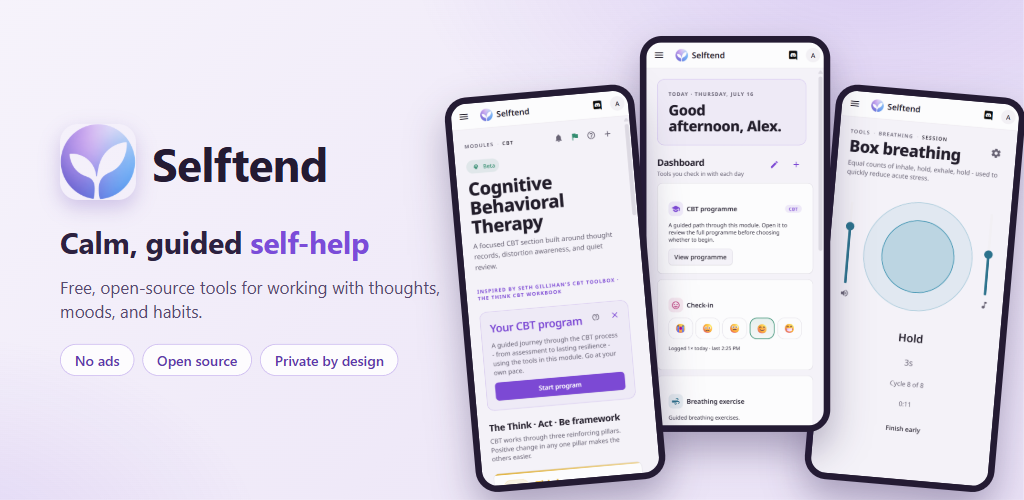
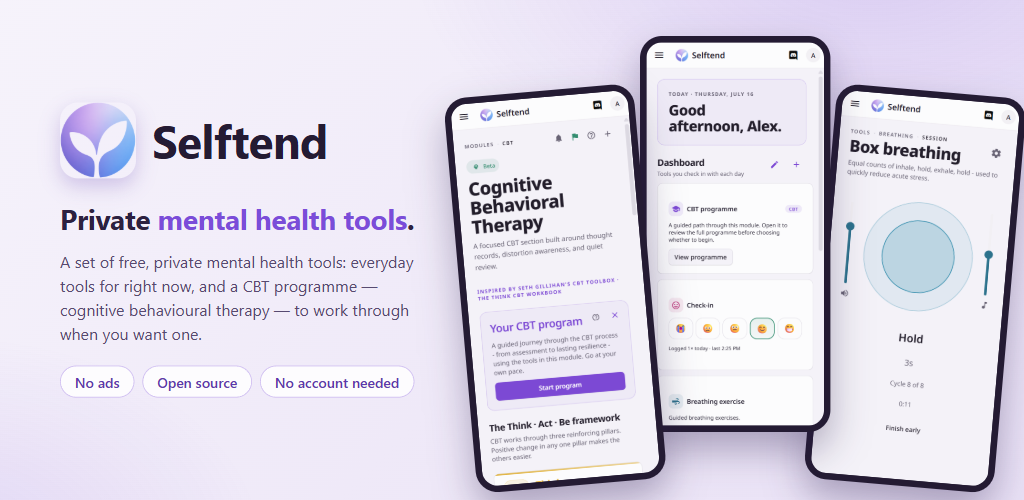
fix(store): the Play feature graphic takes the short form, and its source joins the copy gate (#2022)
The graphic's headline still read "Calm, guided self-help" - the compound
`docs/positioning.md` calls unsafe - through both repositions. It now reads the
short form, "Private mental health tools.", with the frame sentence beneath it.

The sentence is not decoration. Clause 1 requires the method on any surface that
names the category, and since the category noun stopped carrying CBT it is the
only thing putting it there; the graphic carried no method at all before. It
takes the brand-omitted form `auth:landing.subtitle` uses, because the brand
block already prints "Selftend". The "Private by design" pill goes - the
headline says it - and "No account needed" takes its place.

The headline is set at 28px, not 30: at 30 it measures exactly the 380px column
and wraps to a "...mental health / tools." orphan.

"It is an image, so no gate can see it" was half wrong, and the wrong half is
the useful one: the PNG is a screenshot of `feature-graphic.html`, which is text
and tracked. It went unread because the prose corpus keeps `.md` files and
because `docs/launch/` is a published-record exclusion earned by the posted
Reddit banner beside it. The source is carved back out and scanned.

The widening was nearly cosmetic. `\bguided\s+(?:[\w-]+\s+){0,1}self[-\s]help`
does not match `guided <span class="accent">self-help</span>`, so the file would
have been scanned, reported clean, and counted as evidence. Artwork sources are
[…]

diff --git a/test/positioning-copy.test.ts b/test/positioning-copy.test.ts
@@ -58,6 +58,35 @@ function readFile(relative: string): Scanned {
 }
 
 /**
+ * The same, with markup replaced by whitespace — for the artwork sources in
+ * `RENDERED_ARTWORK_SOURCES`.
+ *
+ * ☠☠ **WITHOUT THIS, ADDING THE FILE TO THE CORPUS GUARDS NOTHING, AND
+ * THE SUITE IS GREEN EITHER WAY.** Every rule in this file is a regex over a
+ * flat string, and the phrases they ban are multi-word. In an HTML document a
+ * tag can fall between any two of those words — and in the file this was
+ * written for, one did: the headline was
+ *
+ *     <h1>Calm, guided <span class="accent">self-help</span></h1>
+ *
+ * `\bguided\s+(?:[\w-]+\s+){0,1}self[-\s]help` does not match that, because
+ * `<span class="accent">` is not `[\w-]+`. So the corpus entry would have been
+ * added in response to a live violation, over the exact file carrying it, and
+ * reported clean — the worst outcome available, because it also looks like
+ * proof the rest of the repository is clean.
+ *
+ * Replaced with a SPACE and never the empty string: `a<br>b` is two words, and
+ * concatenating it into `ab` would hide a phrase as surely as splitting one.
+ */
+function readArtworkSource(relative: string): Scanned {
+  return {
+    surface: relative,
+    id: relative,
+    text: fs.readFileSync(path.join(ROOT, relative), "utf8").replace(/<[^>]+>/g, " "),
+  };
+}
+
+/**
  * Copy a user reads inside the product. The i18n half is read via
  * `locale-strings` rather than imported, so a namespace added tomorrow is
  * covered the day its file lands - the property `restraint-copy` was written
@@ -114,7 +143,10 @@ const I18N_VALUES: Scanned[] = USER_FACING.filter(({ surface }) => surface.start
  *     fixing one without the other silently desynchronises them.
  *   - `campaign/scripts/` are the narrations of eight videos already on YouTube.
  *     Changing a script does not change a video.
- *   - `launch/` holds a published Reddit banner.
+ *   - `launch/` holds a published Reddit banner. ☠ It does NOT hold only
+ *     that: the Play feature graphic's HTML source lives beside it and is
+ *     regenerated on demand rather than published once, so it is carved back
+ *     out by `RENDERED_ARTWORK_SOURCES` below (#2022).
  *   - `design/1822-before/` transcribes every LIVE surface verbatim (#1822), so
  *     that #1823 can diff its rewrite against what a visitor actually sees. It
  *     exists BECAUSE the live copy violates these rules: `main` is 117 commits
@@ -193,20 +225,64 @@ function proseDocIds(walked: string[], tracked: ReadonlySet<string>): string[] {
 }
 
 /**
+ * Artwork that is TEXT in this repository and pixels everywhere else (#2022).
+ *
+ * ☠☠ **"IT IS AN IMAGE, SO NO GATE CAN SEE IT" IS HALF WRONG, AND THE WRONG
+ * HALF IS THE ONE THAT COSTS SOMETHING.** The Play feature graphic published the
+ * banned compound as its headline for the whole of the #1616 → #2003
+ * repositioning, and every account of it — the ticket that found it, and
+ * `store/play-listing.md` — explained the miss by saying a PNG is unreadable to
+ * a gate. True, and beside the point: the PNG is a *screenshot* of
+ * `feature-graphic.html`, which is text, tracked, and sitting in this repository
+ * the entire time. The words were greppable; nothing was grepping them.
+ *
+ * They fell through two filters at once, and neither was aimed at them:
+ *
+ *   1. `proseDocIds` keeps `.md` files only, because the corpus was built to
+ *      walk a documentation tree. An `.html` file is not a doc, so it was never
+ *      a candidate.
+ *   2. `docs/launch/` is a `PUBLISHED_RECORDS` entry, earned by the Reddit
+ *      banner beside it — a banner posted once, whose source must keep matching
+ *      the image on Reddit rather than the current positioning.
+ *
+ * ⚠ **The exclusion is right about the banner and wrong about the graphic, and
+ * the difference is not "image vs doc" — it is whether the artefact is FINISHED.**
+ * A posted banner is a record: editing its source changes nothing that anyone
+ * can see, and would only make the record lie. A store asset is live inventory:
+ * `docs/launch/play-listing/README.md` says in as many words to edit this file
+ * and re-screenshot, and the listing takes whatever it is regenerated into. A
+ * file the repository invites you to rewrite is copy, and copy is gated.
+ *
+ * Only the `guided self-help` rules reach here, exactly as for the prose docs —
+ * so this adds one file's worth of banned-compound coverage and no house-style
+ * or user-facing rule, which would go red on the CSS this file is mostly made of.
+ *
+ * ☠ These are read through `readArtworkSource`, never `readFile`, and that is
+ * not a detail: the headline that prompted all of this had a `<span>` sitting
+ * between the two banned words, which every rule here is blind to. See that
+ * function.
+ */
+const RENDERED_ARTWORK_SOURCES = ["docs/launch/play-listing/feature-graphic.html"];
+
+/**
  * Contributor-facing prose: `AGENTS.md` and the docs tree, minus the records
- * above and minus anything git is not tracking. Only the `guided self-help`
- * rules run over this — see their block for why that phrase, and only that
- * phrase, can safely reach this far.
+ * above and minus anything git is not tracking — plus the rendered-artwork
+ * sources above, which are neither prose nor Markdown but are copy. Only the
+ * `guided self-help` rules run over this — see their block for why that phrase,
+ * and only that phrase, can safely reach this far.
  */
 const PROSE_DOCS: Scanned[] = [
-  "AGENTS.md",
-  ...proseDocIds(
-    fs
-      .readdirSync(path.join(ROOT, "docs"), { recursive: true, encoding: "utf8" })
-      .map((entry) => `docs/${entry.split(path.sep).join("/")}`),
-    TRACKED_DOCS,
-  ),
-].map(readFile);
+  ...[
+    "AGENTS.md",
+    ...proseDocIds(
+      fs
+        .readdirSync(path.join(ROOT, "docs"), { recursive: true, encoding: "utf8" })
+        .map((entry) => `docs/${entry.split(path.sep).join("/")}`),
+      TRACKED_DOCS,
+    ),
+  ].map(readFile),
+  ...RENDERED_ARTWORK_SOURCES.map(readArtworkSource),
+];
 
 /**
  * The user-facing copy plus the three prose surfaces that also declare what
@@ -924,6 +1000,62 @@ describe("shipped copy matches the positioning in docs/positioning.md", () => {
     // is load-bearing, not a leftover.
     for (const record of ["docs/app-store-review-information.md", "docs/campaign/scripts/cbt.md"]) {
       expect(readFile(record).text).toMatch(/guided self-help/i);
+    }
+  });
+
+  /**
+   * The feature graphic's source is scanned, and the exclusion around it still
+   * holds (#2022).
+   *
+   * ☠ The assertion that matters is the THIRD one. Adding the file to the
+   * corpus is worth nothing unless the rules actually reach it, and "the suite
+   * is green" cannot show that — it is equally green when the corpus entry is
+   * dropped. So the rule is run directly against the string the graphic carried
+   * until 2026-09-06, which is the shape this entry exists to catch.
+   *
+   * ⚠ The Reddit banner beside it is asserted OUT, and still contains the
+   * compound: `docs/launch/` earns its `PUBLISHED_RECORDS` place on that file,
+   * and a carve-out that quietly swept the whole directory in would turn the
+   * build red on a banner nobody may edit.
+   */
+  it("scans the feature graphic's HTML source, but not the posted banner beside it (#2022)", () => {
+    const ids = new Set(PROSE_DOCS.map((entry) => entry.id));
+    const graphic = "docs/launch/play-listing/feature-graphic.html";
+
+    expect(ids).toContain(graphic);
+    expect(ids.has("docs/launch/reddit-post/banner.html")).toBe(false);
+
+    // The banner really does still carry the compound, so holding `docs/launch/`
+    // out of the walk is load-bearing rather than a leftover.
+    expect(readFile("docs/launch/reddit-post/banner.html").text).toMatch(/guided self-help/i);
+
+    const rule = GUIDED_SELF_HELP.find(({ name }) => name === "en: guided self-help")!;
+
+    // The headline this file carried until 2026-09-06, verbatim. The rule misses
+    // it as markup and catches it as text: that gap is the whole reason the
+    // corpus entry is read through `readArtworkSource`, and asserting the miss
+    // is what stops someone "simplifying" that back to `readFile`.
+    const wasLive = '<h1>Calm, guided <span class="accent">self-help</span></h1>';
+    expect(rule.pattern.test(wasLive)).toBe(false);
+    expect(rule.pattern.test(wasLive.replace(/<[^>]+>/g, " "))).toBe(true);
+
+    // So the entry in the corpus must be the stripped form, not the raw file.
+    // ⚠ The headline is matched with `\s+` and not as a literal: the accent
+    // span around the noun becomes whitespace, and the full stop after its
+    // closing tag detaches into `tools .`. Harmless for every rule that reaches
+    // this corpus, since all three match word sequences — but a future rule
+    // anchored on adjacent punctuation would not survive the strip, and should
+    // be written against the raw file instead of being bent to fit this one.
+    const scanned = PROSE_DOCS.find(({ id }) => id === graphic)!;
+    expect(scanned.text).not.toMatch(/<h1/);
+    expect(scanned.text).toMatch(/Private\s+mental health tools/);
+
+    // And what it carries today is clean under every guided-self-help rule.
+    for (const { pattern } of GUIDED_SELF_HELP) {
+      expect({ rule: pattern.source, hit: pattern.test(scanned.text) }).toEqual({
+        rule: pattern.source,
+        hit: false,
+      });
     }
   });
 

diff --git a/docs/launch/play-listing/feature-graphic.html b/docs/launch/play-listing/feature-graphic.html
@@ -47,7 +47,9 @@
         letter-spacing: -0.7px;
       }
       h1 {
-        font-size: 30px;
+        /* 28px, not 30: at 30 the short form measures exactly the 380px column
+           and wraps to a two-line "…mental health / tools." orphan. */
+        font-size: 28px;
         font-weight: 700;
         color: #2c2140;
         line-height: 1.2;
@@ -58,9 +60,9 @@
         color: #7b4cd9;
       }
       .sub {
-        font-size: 17px;
+        font-size: 16px;
         color: #574a70;
-        line-height: 1.45;
+        line-height: 1.5;
         margin-bottom: 20px;
       }
       .pills {
@@ -123,12 +125,15 @@
           <img src="../../../assets/icon.png" alt="" />
           <div class="name">Selftend</div>
         </div>
-        <h1>Calm, guided <span class="accent">self-help</span></h1>
-        <div class="sub">Free, open-source tools for working with thoughts, moods, and habits.</div>
+        <h1>Private <span class="accent">mental health tools</span>.</h1>
+        <div class="sub">
+          A set of free, private mental health tools: everyday tools for right now, and a CBT
+          programme — cognitive behavioural therapy — to work through when you want one.
+        </div>
         <div class="pills">
           <div class="pill">No ads</div>
           <div class="pill">Open source</div>
-          <div class="pill">Private by design</div>
+          <div class="pill">No account needed</div>
         </div>
       </div>
       <div class="phones">

diff --git a/docs/positioning.md b/docs/positioning.md
@@ -428,7 +428,7 @@ Five gates, split by what each can physically reach. **Nothing reaches the last 
 
 | Surface                                                                                                                                                                                                                                                                                                                                                                                                                                                    | Gate                                                                                                                                                                                                                                               | Strength                                                                                            |
 | ---------------------------------------------------------------------------------------------------------------------------------------------------------------------------------------------------------------------------------------------------------------------------------------------------------------------------------------------------------------------------------------------------------------------------------------------------------- | -------------------------------------------------------------------------------------------------------------------------------------------------------------------------------------------------------------------------------------------------- | --------------------------------------------------------------------------------------------------- |
-| i18n strings (both locales), `public/manifest.webmanifest`, `public/index.html`, `README.md`, `CONTEXT.md`, `docs/product-principles.md` — plus `AGENTS.md` and the whole `docs/` prose tree for the _guided self-help_ rule alone, and i18n values alone for the house-style rules                                                                                                                                                                        | `test/positioning-copy.test.ts`                                                                                                                                                                                                                    | **Merge gate.** Runs in `verify` on every PR.                                                       |
+| i18n strings (both locales), `public/manifest.webmanifest`, `public/index.html`, `README.md`, `CONTEXT.md`, `docs/product-principles.md` — plus `AGENTS.md`, the whole `docs/` prose tree and the Play feature graphic's HTML source (`docs/launch/play-listing/feature-graphic.html`, read with its markup stripped to whitespace) for the _guided self-help_ rule alone, and i18n values alone for the house-style rules                                 | `test/positioning-copy.test.ts`                                                                                                                                                                                                                    | **Merge gate.** Runs in `verify` on every PR.                                                       |
 | The r/Selftend release thread — the frame sentence and the rotated supporting lines, carried as constants in `scripts/release-thread/renderer.mjs` because no i18n key holds the full sentence ([#1880](https://github.com/Selftend/selftend/issues/1880), [#1950](https://github.com/Selftend/selftend/issues/1950))                                                                                                                                      | `test/release-thread-renderer.test.ts`, which pins each constant to § _The frame sentence_ and § _Approved supporting lines_ above, dash-normalised, and scans the renderer's fixed strings for the rules the row above cannot reach in `scripts/` | **Merge gate.** Runs in `verify` on every PR. A rewording above goes red until the drafter follows. |
 | App Store `subtitle`, `promoText`                                                                                                                                                                                                                                                                                                                                                                                                                          | [`store/apple-info.json`](../store/apple-info.json), compared weekly by `.github/workflows/store-metadata-drift.yml`                                                                                                                               | Weekly alarm. Not a merge gate — it reads a remote a human may legitimately change.                 |
 | Play listing text                                                                                                                                                                                                                                                                                                                                                                                                                                          | [`store/play-listing.md`](../store/play-listing.md), carrying a `last verified` date                                                                                                                                                               | Diff and review only. No remote verification exists.                                                |
@@ -477,6 +477,12 @@ Five gates, split by what each can physically reach. **Nothing reaches the last 
 ✅ **The reposition is the sixth growth ring, and it is the first one that is not about spelling** ([#1872](https://github.com/Selftend/selftend/issues/1872), [#1815](https://github.com/Selftend/selftend/issues/1815)). Two changes, both landing green on arrival — the #1606 seeding condition rather than the #1616 fix-the-copy bargain, because there was no copy to fix. The three _guided self-help_ patterns were widened to allow one intervening word, because the new category noun opened a one-word gap in them; a corpus sweep across both locales, the manifest, the HTML shell, `README.md`, `CONTEXT.md`, `AGENTS.md`, `docs/product-principles.md` and the whole `docs/` tree produced **zero new offenders** (en 31 → 31, bg 2 → 2). And the management-verb ban was added at half the width #1815 asked for, for the reason recorded above § _Words never to use_.
 
 ✅ **The second reposition ([#2003](https://github.com/Selftend/selftend/issues/2003)) added no ring, and that is a measurement rather than a claim.** The noun moved and no rule's words moved with it: `test/positioning-copy.test.ts` was green on `dev` before this rewrite and green after it, and the release-thread pin went red exactly once — on the frame sentence — and followed in the same change, as the row above promises. The one-word gap in the _guided self-help_ patterns was left widened even though the noun no longer needs it: a rule leaves this table when its reason dies, and the reason — _self-help_ live in theme 4 and the safety copy — did not.
+
+☠ **It added a CORPUS, though, and the distinction is the point rather than a technicality** ([#2022](https://github.com/Selftend/selftend/issues/2022)). The Play feature graphic published _“Calm, guided self-help”_ as its headline throughout both repositions, and the reason given for the miss — by the ticket that found it and by `store/play-listing.md` — was that a PNG is an image and no gate can read one. That is true and it is not what happened. The PNG is a screenshot of `docs/launch/play-listing/feature-graphic.html`, which is **text, tracked, and in this repository the whole time**; it went unread because the corpus keeps `.md` files and because `docs/launch/` is a published-record exclusion earned by the posted Reddit banner beside it. **No rule was missing. The words were simply never handed to one** — the same shape of defect as [#1908](https://github.com/Selftend/selftend/issues/1908) and [#2019](https://github.com/Selftend/selftend/issues/2019), which is now three times a rule read the wrong set of strings and nothing went red. A guard's reach is worth re-measuring on its own, separately from its rules.
+
+☠☠ **And the widening was nearly cosmetic, which is the trap worth carrying forward.** Adding the file to the corpus does **not** catch the headline it was added for: the live markup was `<h1>Calm, guided <span class="accent">self-help</span></h1>`, and `\bguided\s+(?:[\w-]+\s+){0,1}self[-\s]help` does not match it — `<span class="accent">` is not `[\w-]+`. Every rule here is a flat regex over multi-word phrases, so **any tag falling between two banned words defeats it**, and the file would have been scanned, reported clean, and counted as evidence. The source is therefore read with markup replaced by whitespace, and the test asserts the raw form MISSES and the stripped form HITS, so that reading is not “simplified” away later.
+
+⚠ **What stays unreachable is the artwork's other half** ([#2041](https://github.com/Selftend/selftend/issues/2041)). The graphic's three phone mockups are pre-v0.5.0 captures that read _“Cognitive Behavioral Therapy”_, _“Your CBT program”_ and _“Start program”_ — the American spellings the second and fifth rings ban in app copy — and those words exist only as pixels. There is no text to hand a rule, so this one really is the last row's kind of problem: the fix is new captures, and the gate cannot know whether they were taken.
 
 ⚠ **The closing claim below has now been wrong five times, and it is left standing as a warning rather than repaired into a sixth prediction.** #1627 called itself "the last one this document promised" and #1638 falsified it the next day; #1638 wrote the sentence beneath this one, #1639 falsified that, #1651 falsified it again, and the reposition falsified it a fourth time from a direction none of them anticipated — **not by counting, but by changing the words the rules are about.** So: the gate grows a ring whenever someone counts, and also whenever the positioning moves. The honest statement is that no one has yet counted and found nothing.
 

diff --git a/store/play-listing.md b/store/play-listing.md
@@ -93,7 +93,11 @@ So the listing tells one story in Play's own terms: _mild content, designed for 
 | "no streak pressure"                                | The absence of streaks is never a pitch (owner decision 2026-07-24); banned by `test/positioning-copy.test.ts`, which cannot reach Play. [#1619](https://github.com/Selftend/selftend/issues/1619).                                   | "no pressure"                                                    |
 | "between the web and **Android app**"               | Omitted iOS, live since 2026-08-19. [#1621](https://github.com/Selftend/selftend/issues/1621).                                                                                                                                        | "across web, iOS and Android"                                    |
 
-☠ **One contradiction is live outside the text: the feature graphic.** Seen in the Console's review-assets step on 2026-09-05, the feature graphic's artwork still carries the retired compound from the first table row above ("Calm, guided …"). It is an image, so no gate — not `test/positioning-copy.test.ts`, not this file — can see it, and `docs/launch/play-listing/feature-graphic.png` in the repo is the same artwork. Replacing it is a Console asset edit (one more review) and needs a new graphic first; tracked on [#1999](https://github.com/Selftend/selftend/issues/1999).
+☠ **One contradiction is live outside the text: the feature graphic.** Seen in the Console's review-assets step on 2026-09-05, the **live** feature graphic's artwork still carries the retired compound from the first table row above ("Calm, guided …"). ✅ **The repository's artwork is fixed** ([#2022](https://github.com/Selftend/selftend/issues/2022)): `docs/launch/play-listing/feature-graphic.html` and the 1024×500 PNG rendered from it now carry the short form as the headline over the frame sentence beneath it, so the asset the Console needs already exists. ⚠ **The live asset lags until it is uploaded** — a Console asset edit and one more review, bundled with the ¶1 colon on [#2010](https://github.com/Selftend/selftend/issues/2010).
+
+☠ **_“It is an image, so no gate can see it”_ was half wrong, and the wrong half is the useful one.** The PNG is unreadable to a gate; the **HTML it is rendered from is text in this repository**, and was ungated only by two accidents of corpus construction — `test/positioning-copy.test.ts` keeps `.md` files alone (`proseDocIds` filters on the extension), and `docs/launch/` sits in `PUBLISHED_RECORDS` because the directory also holds an already-posted Reddit banner. A store asset that is regenerated on demand is not the same kind of object as a banner that was posted once, and the exclusion does not distinguish them.
+
+☠ **A second defect rides in the same image and no copy edit reaches it** ([#2041](https://github.com/Selftend/selftend/issues/2041)). The three phone mockups are pre-v0.5.0 captures that legibly read **"Cognitive Behavioral Therapy"**, **"Your CBT program"** and **"Start program"** — the American spellings `verify` bans in app copy ([#1627](https://github.com/Selftend/selftend/issues/1627), [#1651](https://github.com/Selftend/selftend/issues/1651)), published inside a store asset. Those words exist only as pixels, so the fix is new captures from a current build, not an edit to the HTML.
 
 The rest of the description was left as it was on purpose: the "Private by design" block, the 18+ line, and the closing "Important:" paragraph. That paragraph says "wellness and self-help tool" because it is the not-a-medical-device statement Play's health policy wants, and a guardrail outranks the frame ([AGENTS.md](../AGENTS.md) § Product guardrails).
 

diff --git a/docs/launch/play-listing/README.md b/docs/launch/play-listing/README.md
@@ -2,14 +2,30 @@
 
 - `feature-graphic.png` — the 1024×500 feature graphic for the Play Console
   store listing (issue #201 → store-listing polish). Upload as-is: Play Console →
-  Store presence → Main store listing → Feature graphic.
+  Store presence → Main store listing → Feature graphic. ☠ Saving hides in
+  the ⋮ menu and needs a Publishing-overview submit; uploading it costs one
+  more Play review, so bundle it with another Console visit.
 - `feature-graphic.html` — the source it is rendered from (same technique as
   `../reddit-post/banner.html`: open in a browser, screenshot the `.banner`
   element at 1024×500 CSS pixels). Edit this and re-screenshot to regenerate;
   it pulls the app icon from `assets/icon.png` and the phone mockups from
-  `../reddit-post/screen-*.png`.
+  `../reddit-post/screen-*.png`. ⚠ Serve the repo over HTTP rather than
+  opening a `file:` URL — the relative asset paths resolve either way, but
+  browser-automation tools block the `file:` protocol.
 
-The phone screenshots inside the graphic predate v0.5.0 (same captures as the
-Reddit banner). That is acceptable for the decorative feature graphic; the
-listing's actual screenshot slots still need fresh captures from the current
-build (owner step on #201).
+**The copy it carries** (#2022, 2026-09-05 reposition): the headline is the
+short form _“Private mental health tools.”_ and the line beneath it is the
+frame sentence in the brand-omitted form `auth:landing.subtitle` uses, because
+the brand block already prints “Selftend”. The sentence is not decoration:
+`docs/positioning.md`'s clause 1 requires the method on any surface that names
+the category, and since the category noun stopped carrying CBT, the sentence is
+the only thing putting it there. ☠ The headline is set at 28px, not 30 — at
+30 it measures exactly the 380px column and wraps to a `…mental health / tools.`
+orphan.
+
+☠ **The phone screenshots inside the graphic predate v0.5.0** (same captures
+as the Reddit banner) and publish the American spellings `verify` bans in app
+copy — _“Cognitive Behavioral Therapy”_, _“Your CBT program”_ — which is a
+defect rather than acceptable staleness, tracked on #2041. The listing's actual
+screenshot slots still need fresh captures from the current build (owner step on
+#201); the same visit fixes both.
